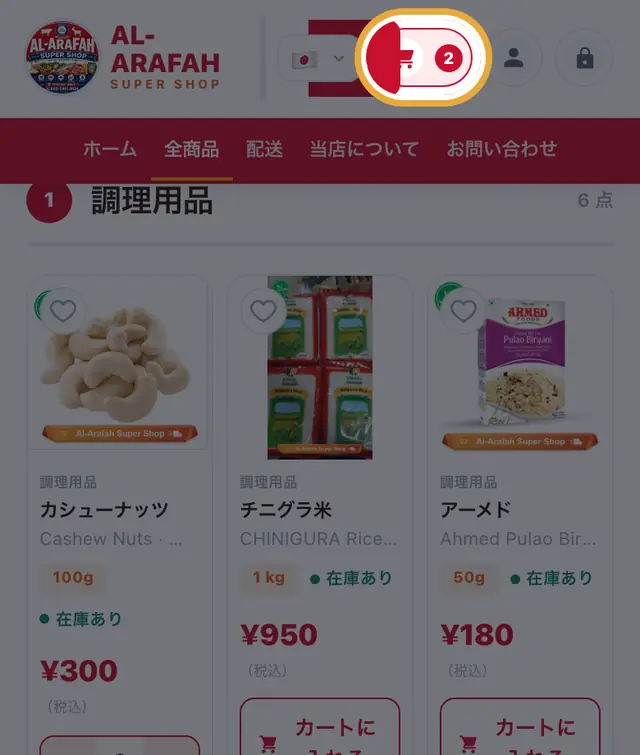
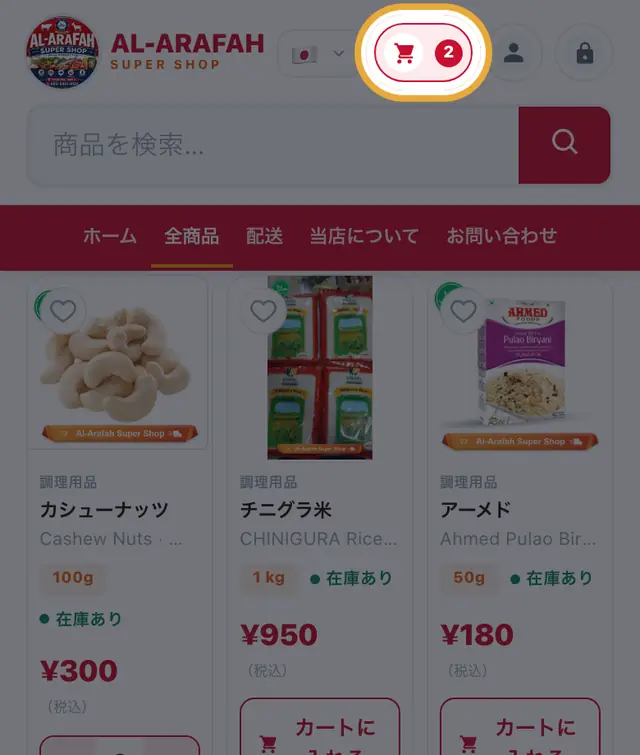
The products page's search gets its own row on a phone
On the products page the header carries a search box, and since the
phone header went onto one line the box was squeezed to 71px by the
logo, flag, basket and account beside it. The text field went to
nothing and only its red button was left: a red block over the flag
and the basket, which also found its way into the how-to-order
pictures.

On phones it now takes a full-width row of its own under the logo
line, pinned with the rest, and the brand takes whatever that first
row has left so the row itself never wraps. Below 340px the words
beside the logo are dropped too; they ran under the flag, and the
round logo carries the name.

The ten tutorial pictures are retaken in all three languages with the
header as it now is.

Checked at 430, 390, 360 and 320: search full width, controls on one
row, the pinned nav flush beneath the taller header, the suggestions
opening over the nav, and the guide test passing again.

Changed region(s): [[0.0, 0.0, 1.0, 0.3656], [0.0312, 0.0, 0.4062, 0.1219], [0.9062, 0.0609, 0.9375, 0.0914]]

diff --git a/src/storefront/styles/bundle.css b/src/storefront/styles/bundle.css
@@ -293,6 +293,17 @@ body:not([data-page="products"]) .header-in .lang{margin-left:auto}
   .hdr-login > span, .hdr-acct-ic, .hdr-cart-ic{width:24px;height:24px}
   .hdr-out{padding:4px;min-height:32px}
   .hdr-out em{display:none}
+
+  /* The products page carries a search box in the header as well. On
+     the one line it was squeezed to 71px: the text box went to nothing
+     and only its red button was left, a red block beside the flag. It
+     gets a row of its own under the logo line instead, the width of
+     the screen, and pinned with the rest. The brand takes whatever the
+     first row has left (basis 0), so that row can never be the one to
+     wrap. */
+  .header-in:has(> .search){flex-wrap:wrap;row-gap:9px}
+  .header-in:has(> .search) .brand{flex:1 1 0}
+  .header-in > .search{order:10;flex:1 1 100%}
 }
 
 /* Very small phones: shrink the brand and language buttons so the row
@@ -341,6 +352,12 @@ body:not([data-page="products"]) .header-in .lang{margin-left:auto}
 @media(max-width:400px){
   .hdr-out em{display:none}
   .hdr-out{padding:5px}
+}
+
+/* Below 340px the words no longer fit beside the controls and ran under
+   the flag. The round logo carries the shop's name on its own. */
+@media(max-width:340px){
+  .brand-tx{display:none}
 }
 
 /* ===== layout/nav.css ===== */

diff --git a/src/storefront/styles/layout/header.css b/src/storefront/styles/layout/header.css
@@ -203,6 +203,17 @@ body:not([data-page="products"]) .header-in .lang{margin-left:auto}
   .hdr-login > span, .hdr-acct-ic, .hdr-cart-ic{width:24px;height:24px}
   .hdr-out{padding:4px;min-height:32px}
   .hdr-out em{display:none}
+
+  /* The products page carries a search box in the header as well. On
+     the one line it was squeezed to 71px: the text box went to nothing
+     and only its red button was left, a red block beside the flag. It
+     gets a row of its own under the logo line instead, the width of
+     the screen, and pinned with the rest. The brand takes whatever the
+     first row has left (basis 0), so that row can never be the one to
+     wrap. */
+  .header-in:has(> .search){flex-wrap:wrap;row-gap:9px}
+  .header-in:has(> .search) .brand{flex:1 1 0}
+  .header-in > .search{order:10;flex:1 1 100%}
 }
 
 /* Very small phones: shrink the brand and language buttons so the row
@@ -251,4 +262,10 @@ body:not([data-page="products"]) .header-in .lang{margin-left:auto}
 @media(max-width:400px){
   .hdr-out em{display:none}
   .hdr-out{padding:5px}
+}
+
+/* Below 340px the words no longer fit beside the controls and ran under
+   the flag. The round logo carries the shop's name on its own. */
+@media(max-width:340px){
+  .brand-tx{display:none}
 }
